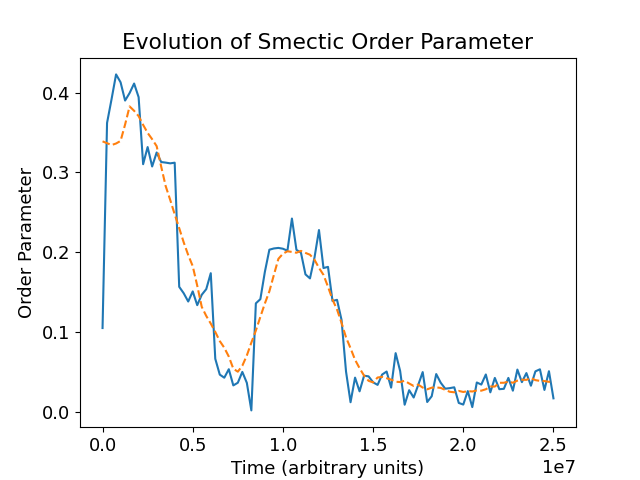
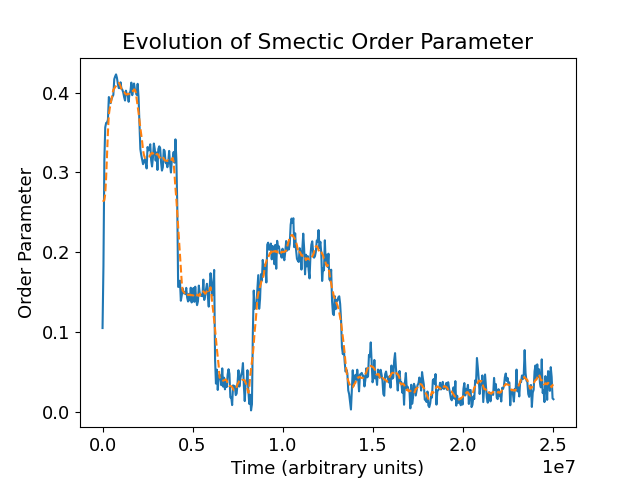
diffusion plot smectic point identification

diff --git a/Phase_Structure/Rigid_Rods2/Crystalline/Full_Transition/diffusion_coeff.py b/Phase_Structure/Rigid_Rods2/Crystalline/Full_Transition/diffusion_coeff.py
@@ -227,7 +227,6 @@ for i, time in enumerate(time_range):  # interate over dump files
         if indices[1] == 0:  # start of sampling period
             initial_sample = com_positions
             sampled_vol_values[indices[0]] = box_volume
-            print(box_volume)
 
             extra_displacement = np.zeros_like(com_positions)  # reset for each sample
 
@@ -242,7 +241,6 @@ for i, time in enumerate(time_range):  # interate over dump files
             )  # initial sample taken from previous iteration in if clause
             sampled_D_values[indices[0], :] = sampled_rms / (6 * equilibrium_time)
             # D value for i-th equillibration period
-            print(vol_frac(box_volume, mol_length, N_molecules))
 
             run_num += 1
             equilibrium_flag = False
@@ -255,31 +253,28 @@ for i, time in enumerate(time_range):  # interate over dump files
 # # NaN values correspond to a misalignment with dump frequency and the ends of each equillibration run
 # print(sampled_vol_values)
 
-plot_list = range(0, run_num_tot, 1)  # runs to plot
+plot_list = range(0, run_num_tot, 1)  # runs to plot (inc step if too many runs)
 
 sampled_vol_frac = vol_frac(sampled_vol_values, mol_length, N_molecules)
-print(sampled_vol_frac)
 
 fig, axs = plt.subplots(nrows=1, ncols=len(plot_list), sharey=True, figsize=(10, 5))
 for plot_index, data_index in enumerate(plot_list):
     axs[plot_index].set_title(
         r"$\phi =$" + "{:.2f}".format(sampled_vol_frac[data_index])
     )
-    rms_disp_values[data_index, 0, 0] = rms_disp_values[data_index, 1, 0]  # remove nan
-    if np.isnan(rms_disp_values[data_index, -1, 0]):  # remove nan at end of array
-        rms_disp_values[data_index, -1, :] = rms_disp_values[data_index, -2, :]
-
+    # print(rms_disp_values[data_index, :, 0])
+    rms_disp_values[data_index, 0, :] = rms_disp_values[data_index, 1, :]  # remove nan
     eq_time_values = np.array(eq_range)
     eq_time_values[0] = eq_time_values[1]  # remove zero so log can be evaluated
 
     slope, intercept, r_value, p_value, std_err = linregress(
         np.log10(eq_time_values), np.log10(rms_disp_values[data_index, :, 0])
     )  # consider x axis for purpose of this
-    plot_best_fit = True
+    plot_best_fit = False
 
     print(
-        "For vol frac = " + "{:.4f}".format(sampled_vol_frac[data_index]) + ", slope = "
-        "{:.4f}".format(slope)
+        "For vol frac = " + "{:.2f}".format(sampled_vol_frac[data_index]) + ", slope = "
+        "{:.2f}".format(slope)
     )  # can add this onto graph with plt.annotate if desired
 
     for j in range(dimension_num):
@@ -290,7 +285,7 @@ for plot_index, data_index in enumerate(plot_list):
         else:
             axs[plot_index].loglog(eq_range, rms_disp_values[data_index, :, j])
 
-    if plot_best_fit == True:
+    if plot_best_fit:
         axs[plot_index].plot(
             eq_time_values,
             (eq_time_values ** slope) * (10 ** intercept),
@@ -298,21 +293,22 @@ for plot_index, data_index in enumerate(plot_list):
             linestyle="dashed",
         )
 
-axs[int(len(plot_list) / 2)].set_xlabel(
-    "Time (Arbitrary Units)"
-)  # use median of plot_list
-axs[0].set_ylabel("RMS displacement")
+axs[int(len(plot_list) / 2)].set_xlabel("Time Step")  # use median of plot_list
+axs[0].set_ylabel(r"RMS Displacement ($\langle x_{i}\rangle^{2}$)")
 fig.legend(loc="center right")
-plt.savefig("rms_displacement_runwise2.png")
+plt.savefig("rms_displacement_runwise_bf.png")
 plt.show()
 
+markers = ["x", "1", "+"]
 for i in range(dimension_num):
     plt.plot(
-        sampled_vol_frac, sampled_D_values[:, i], "x", label=axis_labels[i],
+        sampled_vol_frac, sampled_D_values[:, i], markers[i], label=axis_labels[i],
     )
-plt.ylabel("Diffusion Coefficient")
-plt.xlabel("Volume Fraction")
+plt.ylabel(r"Diffusion Coefficient ($D_{i}$)")
+plt.xlabel(r"Volume Fraction ($\phi$)")
 plt.legend()
 plt.savefig("order_vs_diffusion_with_bc.png")
 plt.show()
+
+print(sampled_vol_frac)
 

diff --git a/Report/Project Report/ProjectReport.tex b/Report/Project Report/ProjectReport.tex
@@ -402,7 +402,7 @@ As the volume fraction is increased, we observe a tendency towards subdiffusive 
 	\label{fig:nun_diff_rmsplots}
 \end{figure}  %C:\Users\KitG\Documents\LC_Project\Phase_Structure\Nunchucks\Fixed_Angle\Crystalline\Full Transition2
 
-Phase formation may also be observed through deviations in these coordinate-specific diffusion coefficients, measuring the average particle displacement along a given coordinates axes. Here the Cartesian axes may be used, as simulations are configured in a crystalline phase with molecules orientated along the $y$ axis, and smectic layers forming in the $x-z$ plane. As depicted in Figure \ref{fig:nun_diff_Dcoeff}, isotropic diffusion is observed below ($\phi = 0.4$), but the $y$-coordinate diffusion coefficient is severely reduced beyond this point, giving a strong indication to the onset of formation of the smectic phase. There is also some indication of the crystalline phase at the highest volume fractions, with diffusion now equally limited in all directions, but this evidence is not conclusive.
+Phase formation may also be observed through deviations in these coordinate-specific diffusion coefficients, measuring the average particle displacement along a given coordinates axes. Here the Cartesian axes may be used, as simulations are configured in a crystalline phase with molecules orientated along the $y$ axis, and smectic layers forming in the $x-z$ plane. As depicted in Figure \ref{fig:nun_diff_Dcoeff}, isotropic diffusion is observed at low volume fractions, but the $y$-coordinate diffusion coefficient is severely reduced before this, giving a strong indication to the onset of formation of the smectic phase below $\phi = 0.45$. This is in agreement with the prediction of $ 0.40<\phi^{*}<0.44$ obtained from the smectic order parameter. There is also some indication of the crystalline phase at the highest volume fractions, with diffusion now equally limited in all directions, but this evidence is not conclusive.
 
 \begin{figure} [h!]
 	\centering

diff --git a/Phase_Structure/Nunchucks/Fixed_Angle/Crystalline/Full Transition2/smectic_plot.py b/Phase_Structure/Nunchucks/Fixed_Angle/Crystalline/Full Transition2/smectic_plot.py
@@ -6,8 +6,8 @@ from scipy.ndimage import uniform_filter1d  # for rolling average
 from phase_plot import vol_frac
 
 file_root = "output_T_0.5_time_"
-sampling_freq = 5  # only samples one in X files (must be integer) #30
-plotting_freq = 5  # only plots on in X of the sampled distributions
+sampling_freq = 1  # only samples one in X files (must be integer) #30
+plotting_freq = 25  # only plots on in X of the sampled distributions
 
 plt.rcParams.update({"font.size": 13})  # for figures to go into latex at halfwidth
 
@@ -215,7 +215,7 @@ fig, ax1 = plt.subplots()
 color = "tab:red"
 ax1.set_xlabel("Time (arbitrary units)")
 ax1.set_ylabel("CoM density variation", color=color)
-ax1.plot(CoM_mean_times, uniform_filter1d(CoM_mean_values, size=int(10)), color=color)
+ax1.plot(CoM_mean_times, CoM_mean_values, color=color)
 ax1.tick_params(axis="y", labelcolor=color)
 
 ax2 = ax1.twinx()  # instantiate a second axes that shares the same x-axis
@@ -224,7 +224,7 @@ color = "tab:blue"
 ax2.set_ylabel(
     "Volume Fraction", color=color
 )  # we already handled the x-label with ax1
-ax2.plot(time_range, vol_frac(volume_values), color=color)
+ax2.plot(time_range, vol_frac(volume_values, mol_length=15, N=N_molecules), color=color)
 ax2.tick_params(axis="y", labelcolor=color)
 
 plt.title("Evolution of CoM Density")
@@ -257,10 +257,12 @@ color = "tab:blue"
 ax2.set_ylabel(
     "Volume Fraction", color=color
 )  # we already handled the x-label with ax1
-ax2.plot(time_range, vol_frac(volume_values), color=color)
+ax2.plot(time_range, vol_frac(volume_values, mol_length=15, N=N_molecules), color=color)
 ax2.tick_params(axis="y", labelcolor=color)
 
 plt.title("Evolution of Order Parameter")
 fig.tight_layout()  # otherwise the right y-label is slightly clipped
 plt.savefig("s_order_and_volfrac2.png")
 plt.show()
+
+print(vol_frac(volume_values, mol_length=15, N=N_molecules))
